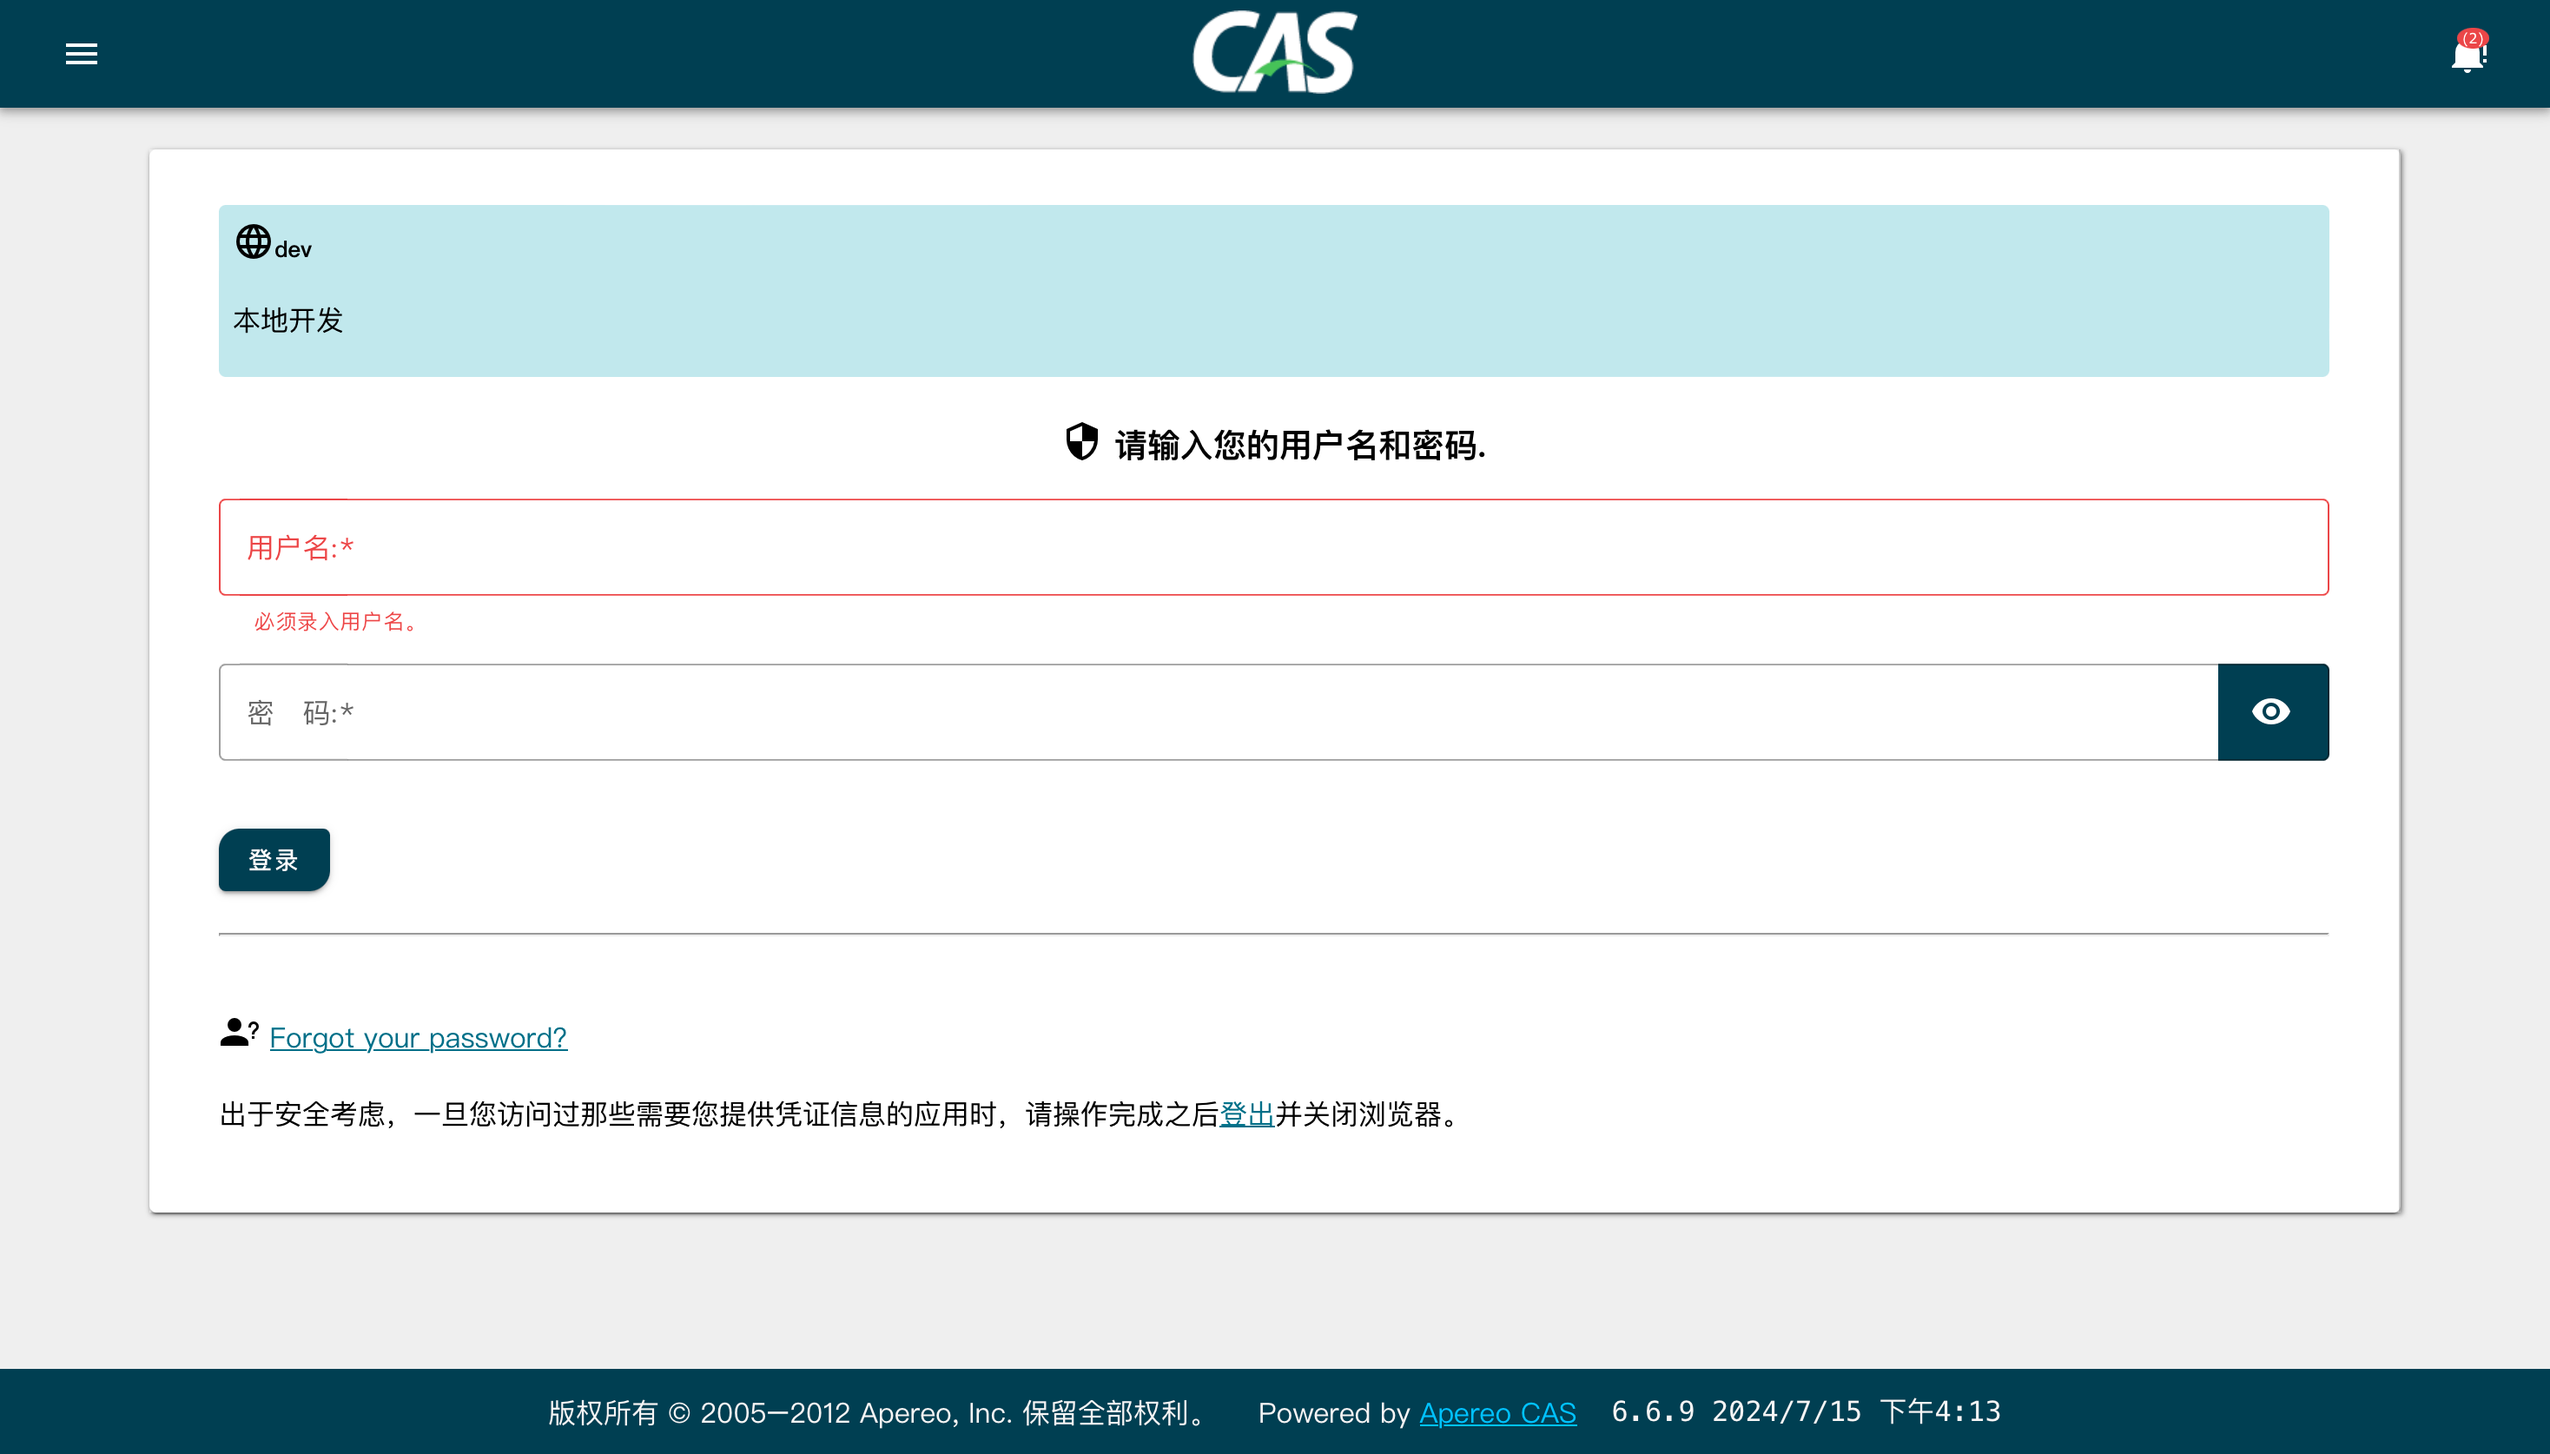
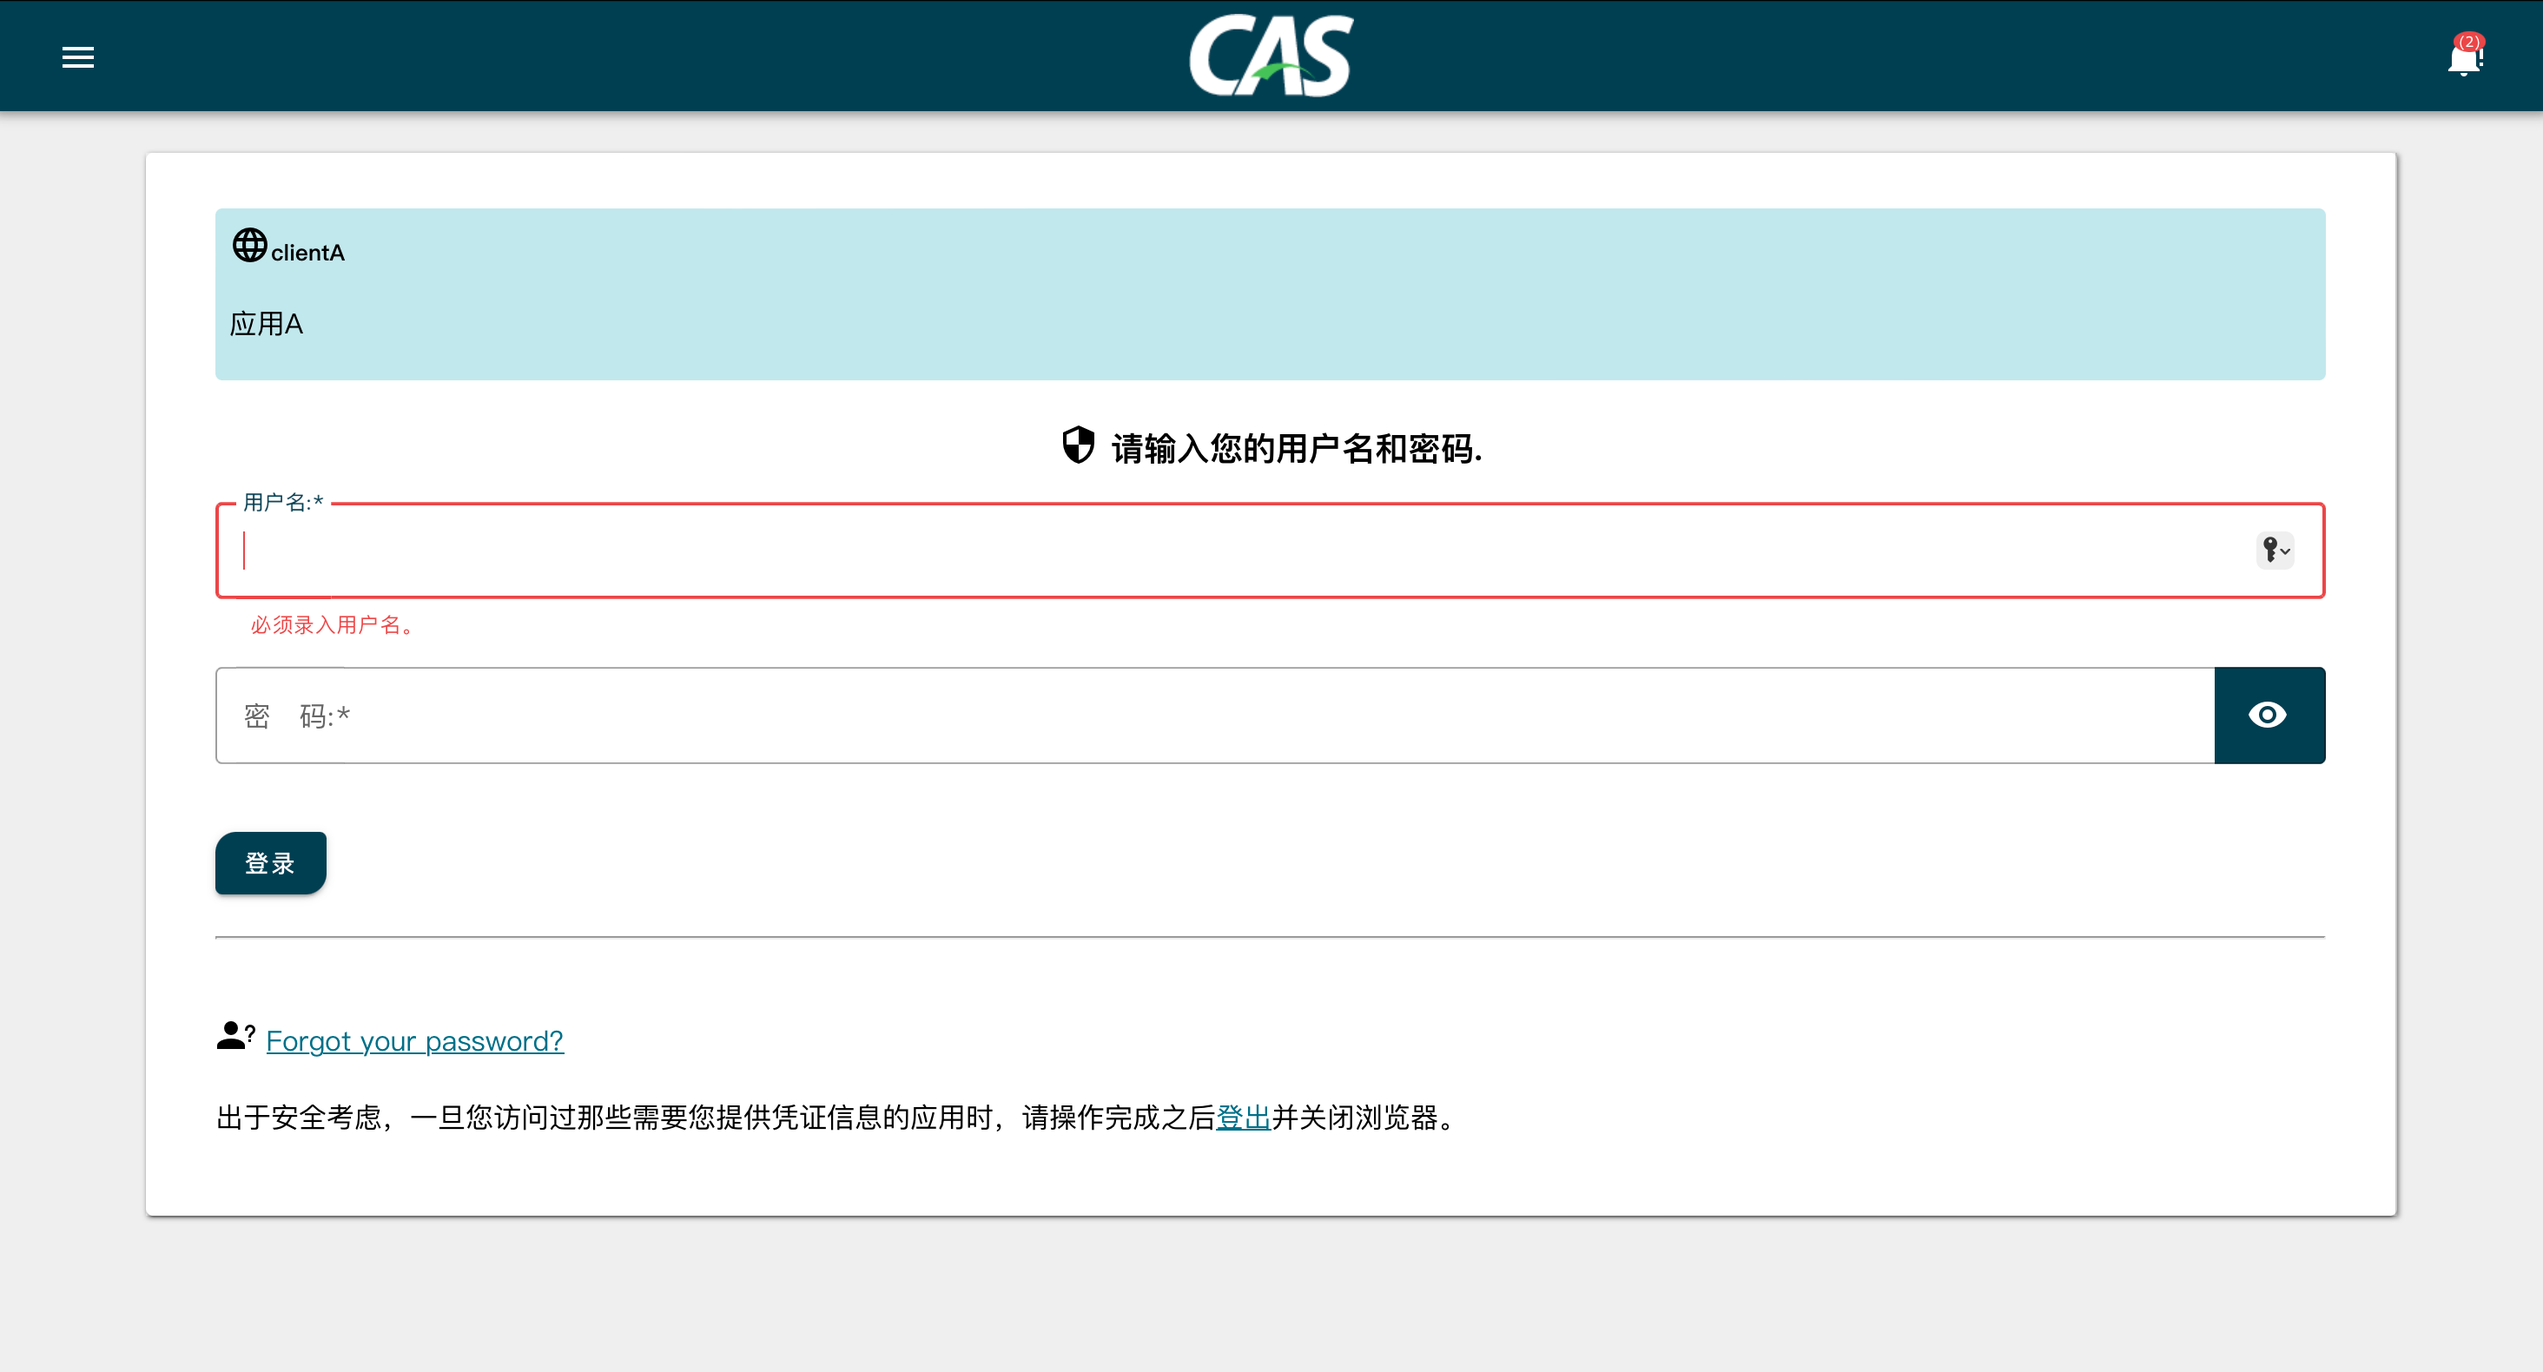
change details

diff --git a/docs/实践篇/9. CAS服务管理（json文件）.md b/docs/实践篇/9. CAS服务管理（json文件）.md
@@ -18,15 +18,15 @@
 </dependency>
 ```
 ### 2. 配置应用
-vim /resources/services/dev-9000.json
+vim /resources/services/clientA-1.json
 ```json
 {
   "@class": "org.apereo.cas.services.CasRegisteredService",
   "serviceId": "^https?://localhost:8080/.*",
-  "name": "dev",
-  "id": 9000,
-  "description": "本地开发",
-  "evaluationOrder": 9000
+  "name": "clientA",
+  "id": 1,
+  "description": "应用A",
+  "evaluationOrder": 1
 }
 ```
 ![cas-client-enable.png](../images%2Fcas-client-enable.png)

diff --git a/docs/实践篇/11. 个性化-登录页面.md b/docs/实践篇/11. 个性化-登录页面.md
@@ -1,0 +1,4 @@
+# 个性化-登录页面
+
+## 参考
+https://apereo.github.io/cas/6.6.x/ux/User-Interface-Customization.html
